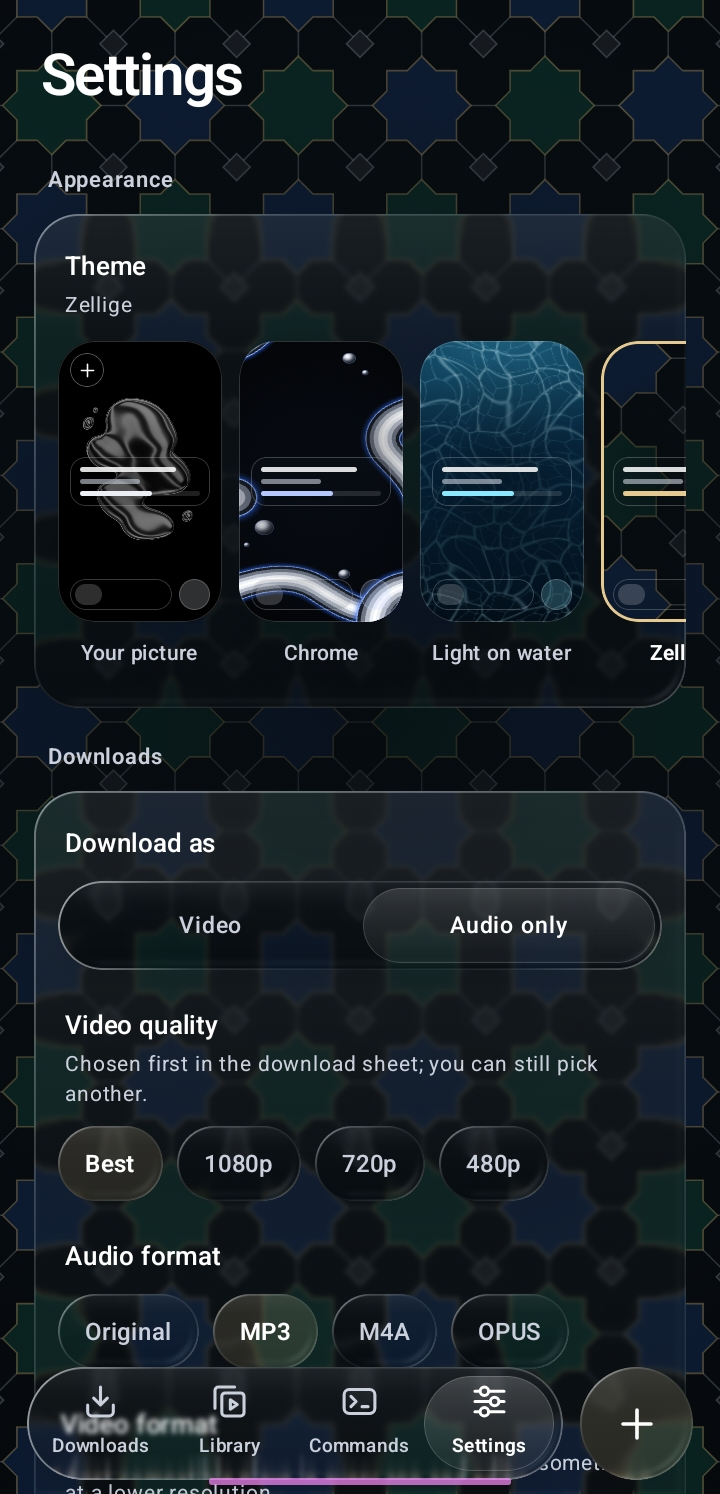
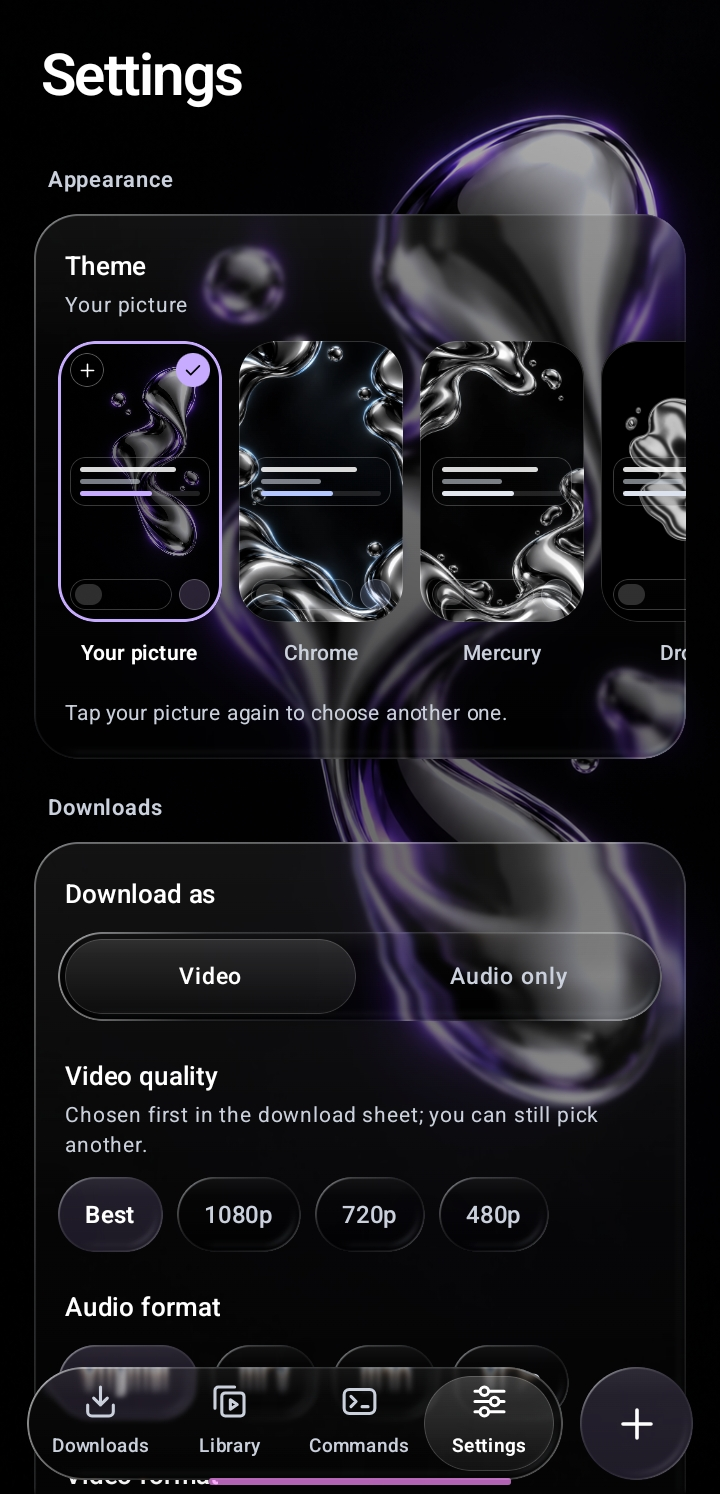
README: Settings screenshot with the new themes
Claude-Session: https://claude.ai/code/session_01Q6rZ9wUMpJoSUq9iYtoFqp

diff --git a/README.md b/README.md
@@ -16,7 +16,7 @@
 <p align="center">
   <img src="fastlane/metadata/android/en-US/images/phoneScreenshots/1.jpg" width="31%" alt="Downloads: a Blender film trailer finished and a NASA video downloading">
   <img src="fastlane/metadata/android/en-US/images/phoneScreenshots/2.jpg" width="31%" alt="Commands: saved yt-dlp options, over the city lights theme">
-  <img src="fastlane/metadata/android/en-US/images/phoneScreenshots/3.jpg" width="31%" alt="Settings: theme picker and download defaults, over the zellige theme">
+  <img src="fastlane/metadata/android/en-US/images/phoneScreenshots/3.jpg" width="31%" alt="Settings: the theme picker with the liquid-metal themes, over a picture chosen as the background">
 </p>
 
 ## Features
